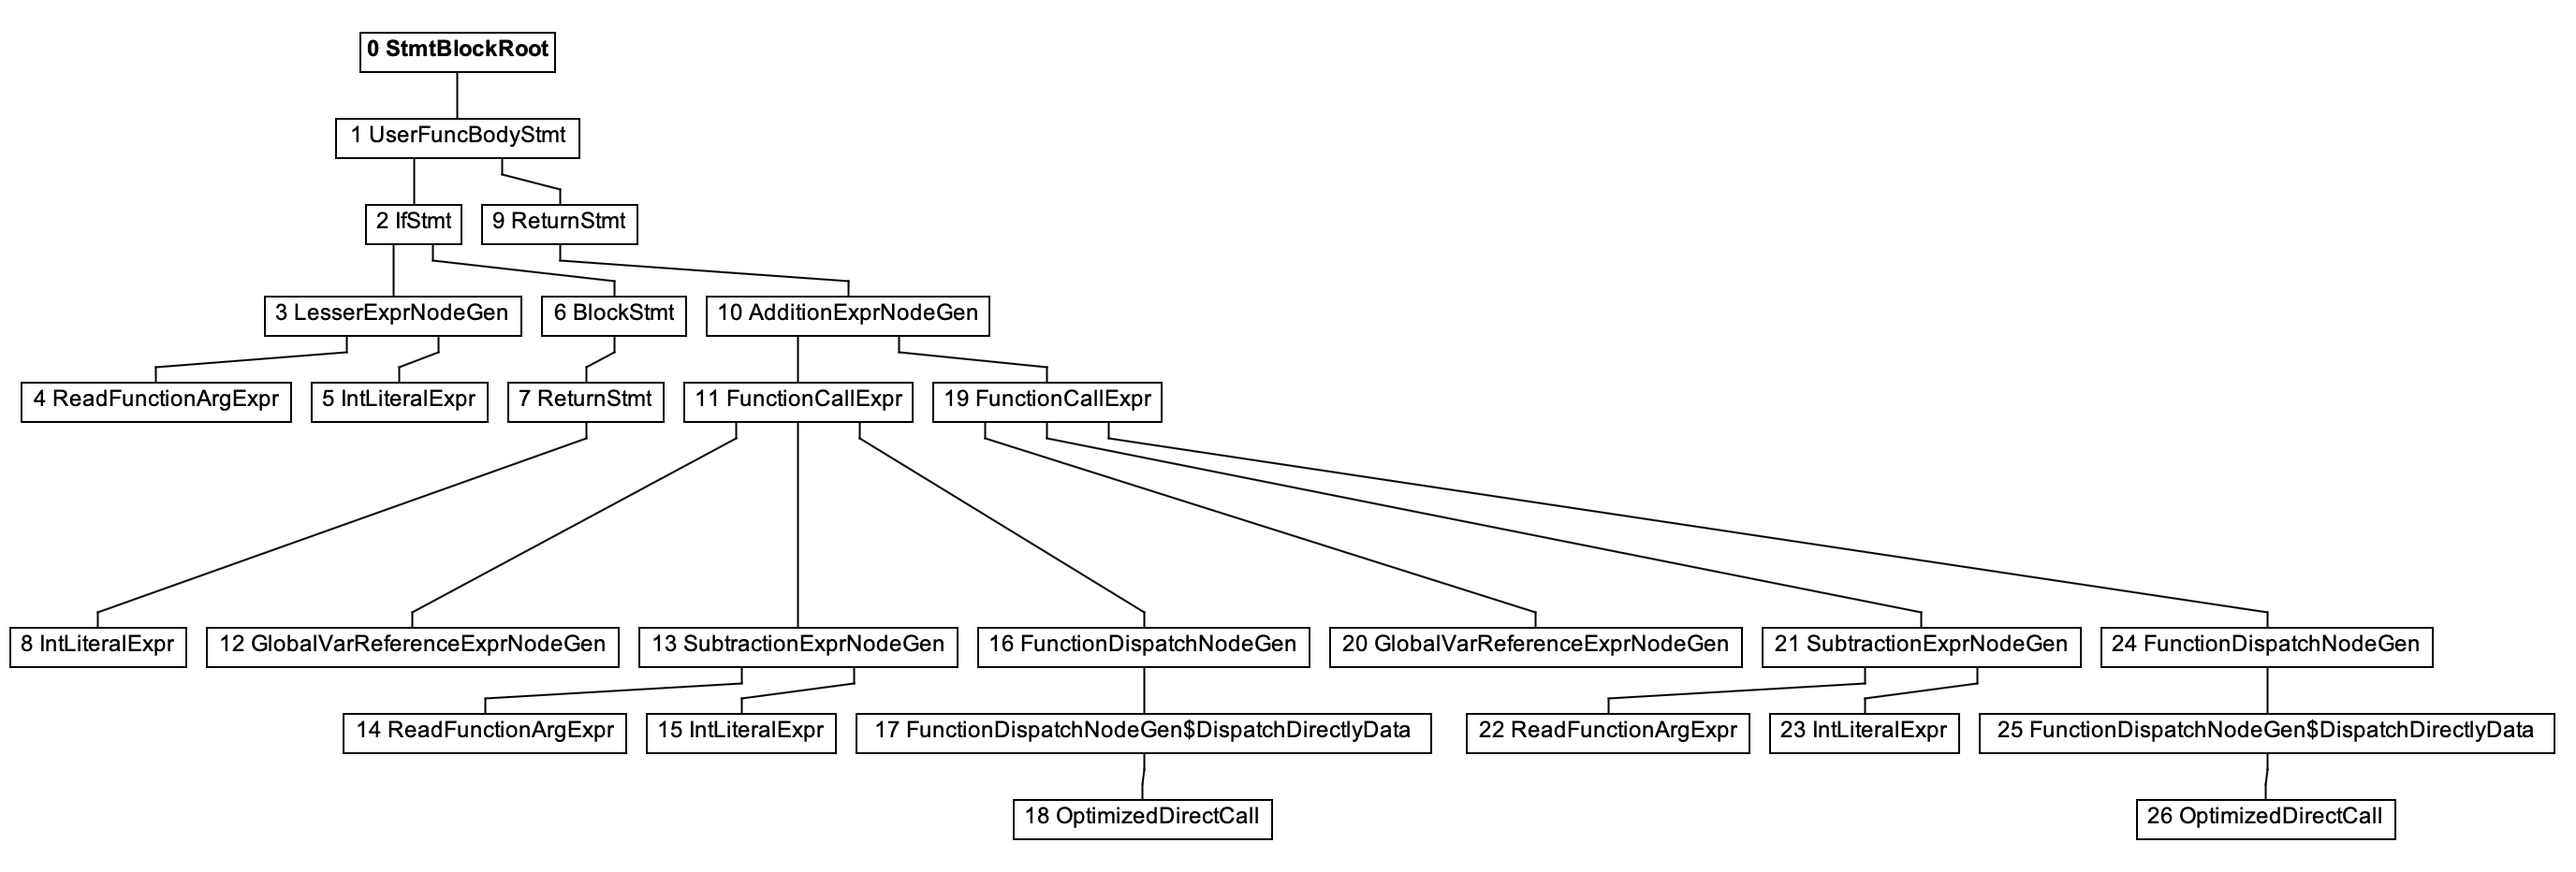
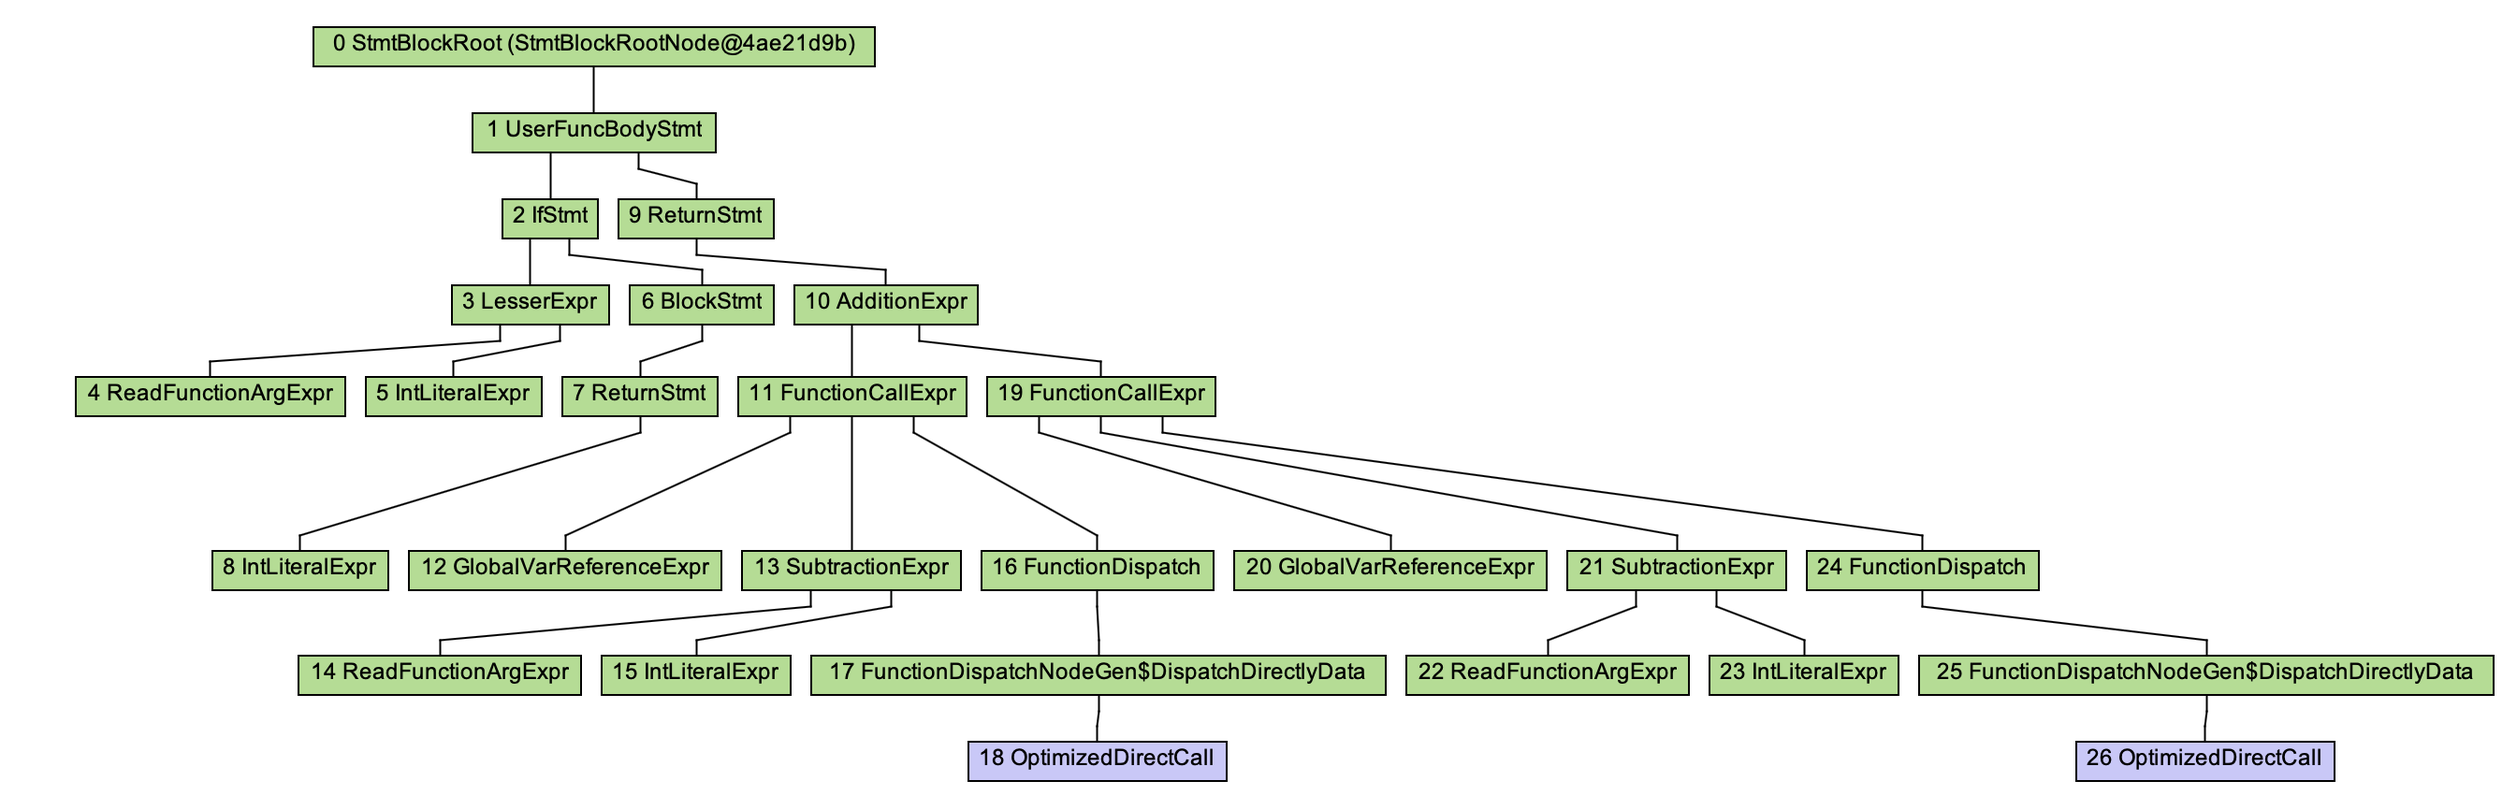
Update instructions for using Ideal Graph Visualizer

diff --git a/content/articles/2022/graal-truffle-tutorial-part-9-performance-benchmarking.md b/content/articles/2022/graal-truffle-tutorial-part-9-performance-benchmarking.md
@@ -472,14 +472,16 @@ It's a project maintained by the same team that maintains GraalVM and Truffle,
 and allows visualizing as graphs the many debug trees that Truffle and Graal produce in the process of interpreting your language.
 
 To have your Truffle interpreter emit graphs to consume in IGV,
-you need to add the `-Dgraal.Dump=:1` JVM argument when starting it.
-You can send the dumps directly to the program with the
-`-Dgraal.PrintGraph=Network`, or to a specific file by passing the `-Dgraal.DumpPath` argument
-(the default is to save them in the `graal_dumps`
-folder in the current directory if they cannot be delivered to a running instance of IGV).
+you need to add the `-Djdk.graal.Dump=:1` JVM argument when starting it.
+The default destination for the graphs is to save them in the `graal_dumps`
+folder in the current directory.
+You can send the graph files to a different folder by passing the `-Djdk.graal.DumpPath` argument.
+Additionally, Graal tends to produce a lot of graphs,
+so it's useful to filter them to only the `RootNode`s
+of your language's implementation with the `-Djdk.graal.MethodFilter` argument.
 
-For example, to dump the data from the EasyScript benchmark,
-you can add the appropriate JVM arguments in the benchmark configuration:
+For example, to save the graphs from the EasyScript benchmark,
+you can add the appropriate JVM arguments to the benchmark configuration:
 
 ```java
 import org.openjdk.jmh.annotations.Benchmark;
@@ -489,8 +491,8 @@ public class FibonacciBenchmark extends TruffleBenchmark {
     // ...
 
     @Fork(jvmArgsPrepend = {
-            "-Dgraal.Dump=:1",
-            "-Dgraal.PrintGraph=Network"
+            "-Djdk.graal.Dump=:1",
+            "-Djdk.graal.MethodFilter=*StmtBlockRootNode*",
     })
     @Benchmark
     public int recursive_eval_ezs() {
@@ -499,30 +501,30 @@ public class FibonacciBenchmark extends TruffleBenchmark {
 }
 ```
 
-After [downloading IGV](https://www.oracle.com/downloads/graalvm-downloads.html),
-run it by executing `./idealgraphvisualizer`
-in the `bin` directory of the downloaded and uncompressed program.
-Now, when running the benchmark, you should see in the output:
+With these changes, when running the benchmark, you should see these lines in the output:
 
 ```shell-session
-[Use -Dgraal.LogFile=<path> to redirect Graal log output to a file.]
-Connected to the IGV on 127.0.0.1:4445
+...
+Dumping IGV graphs in /Users/user/graalvm-truffle-tutorial/part-09/graal_dumps/2026.05.13.19.27.59.067
+...
 ```
 
-And a bunch of entries should appear in the "Outline" menu on the left.
-Each of those entries represents a GraalVM graph.
-Now, there are many graphs, but the ones that interest us today start with `TruffleAST`.
-If we click on one of them generated by the EasyScript benchmark,
-we'll see something like this:
+After [starting IGV](https://www.graalvm.org/jdk25/tools/igv/#get-started),
+you can now open the graph files from the above directory,
+and a bunch of entries should appear in the "Outline" menu on the left.
+Each of those entries represents a different GraalVM graph.
+The ones that interest us today are the `AST` graphs.
+If you click on a few of them,
+you should be able to find one that looks like this:
 
 ![](/img/truffle/igv/ezs-fib-graph.png)
 
 This is the Truffle AST for our `fib` function!
-You can click on any of nodes in the graph,
+You can click on any node in that graph,
 and you'll see the values it contains -- for example,
 clicking on node number 5, `IntLiteralExprNode`
 (the "Node" suffix gets removed by IGV from the labels in the graph,
-as it's implied that all vertexes in the graphs represents Truffle nodes),
+as it's implied that all vertexes in the AST graphs represent Truffle nodes),
 you'll see that it has value `2`,
 which makes perfect sense, because that part of the graph corresponds to the code:
 
@@ -544,7 +546,7 @@ If we compare that to the graph for the `fib` function generated by SimpleLangua
 The general shape of the graph is identical
 (although SimpleLanguage adds a few more nodes at each level),
 but we can clearly see that the recursive calls to `fib`
-(nodes number 30 and 42)
+(nodes number 32 and 45)
 are `OptimizedDirectCall`s.
 This explains why the SimpleLanguage implementation is so much faster than our EasyScript one.
 
